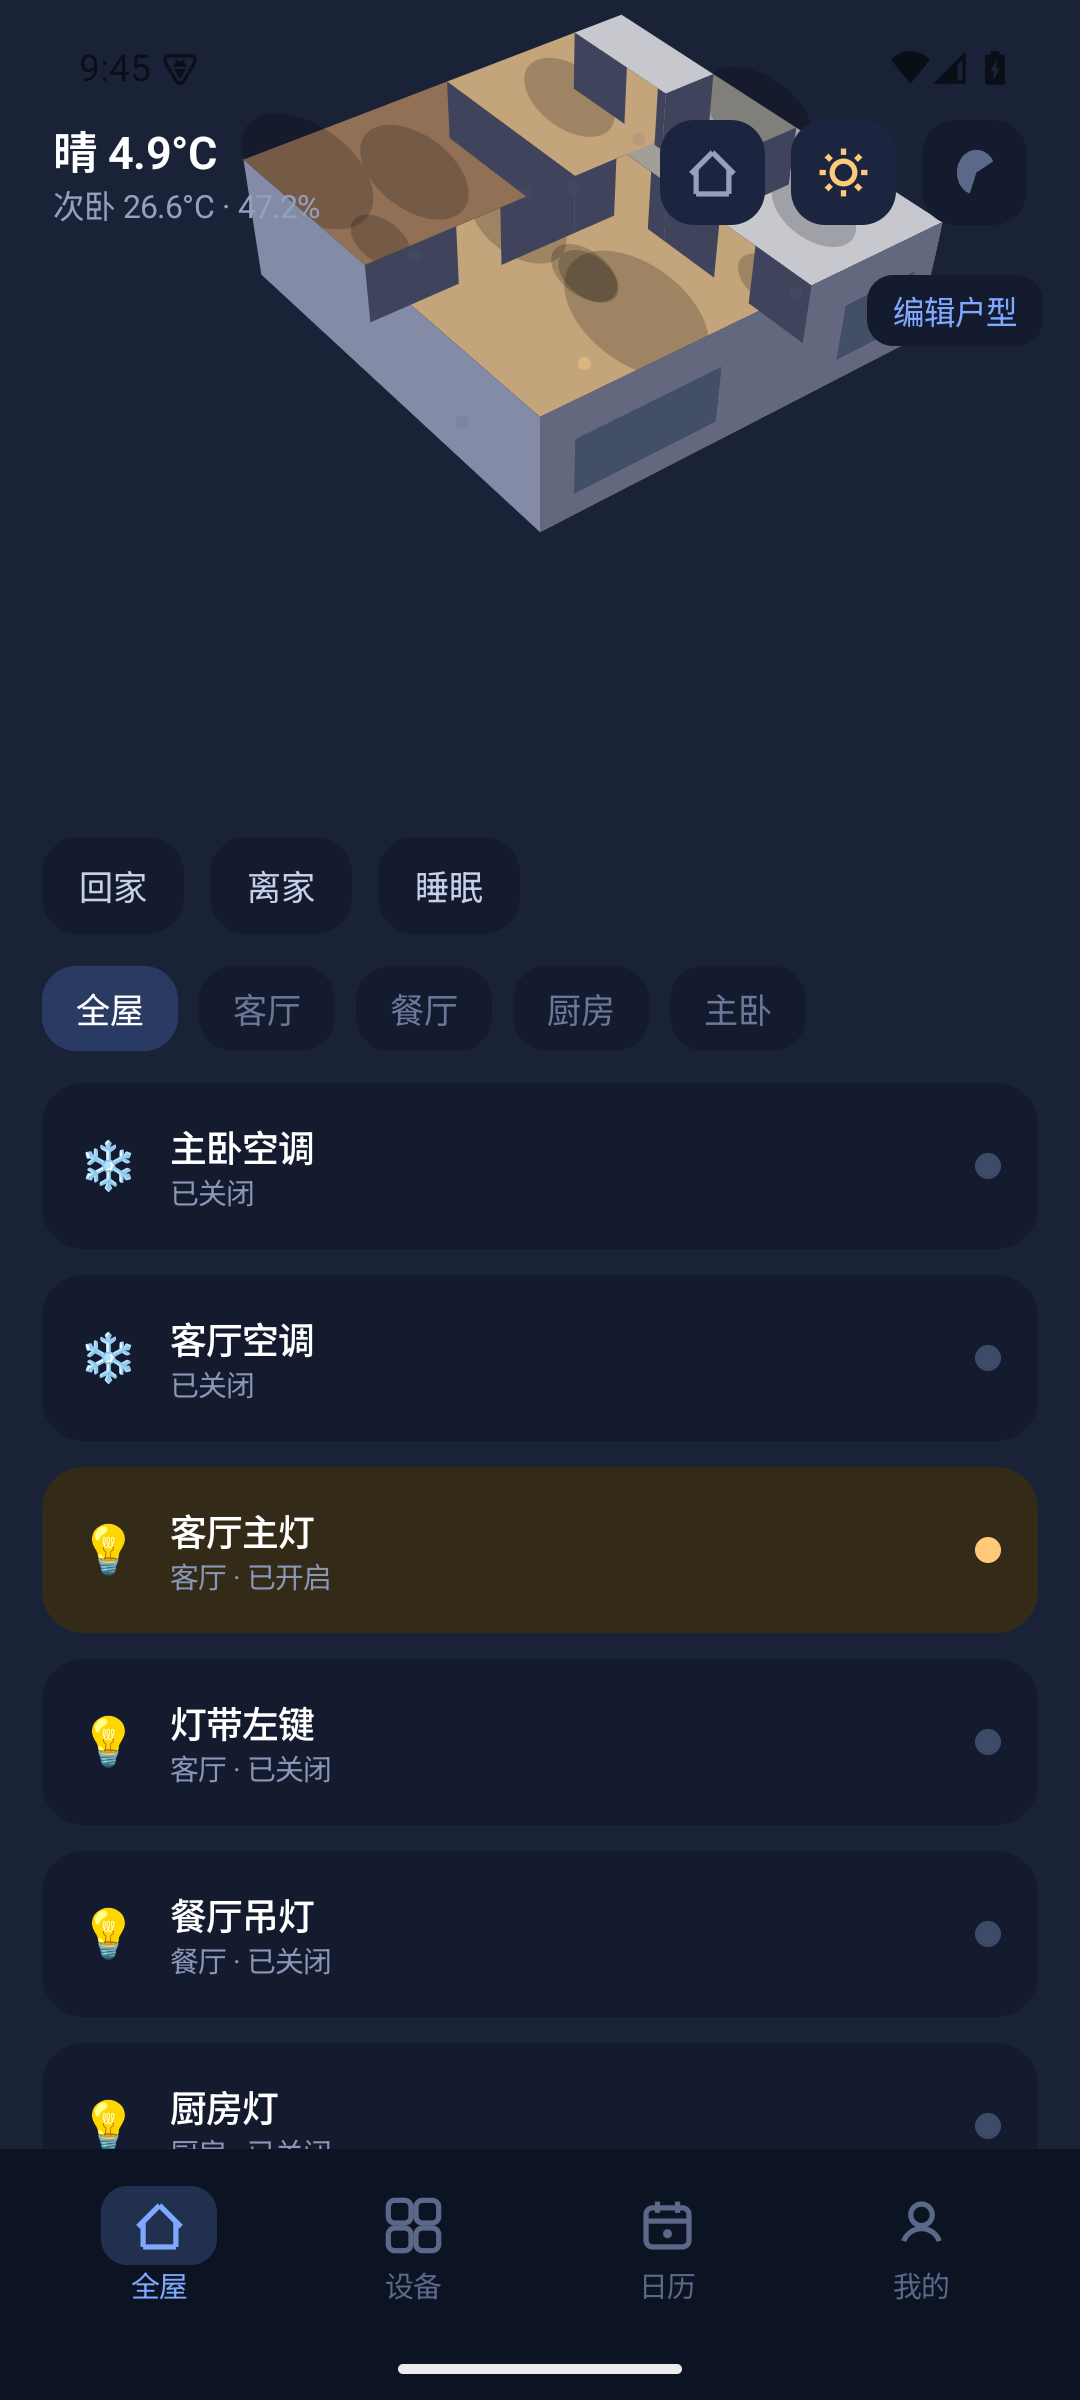
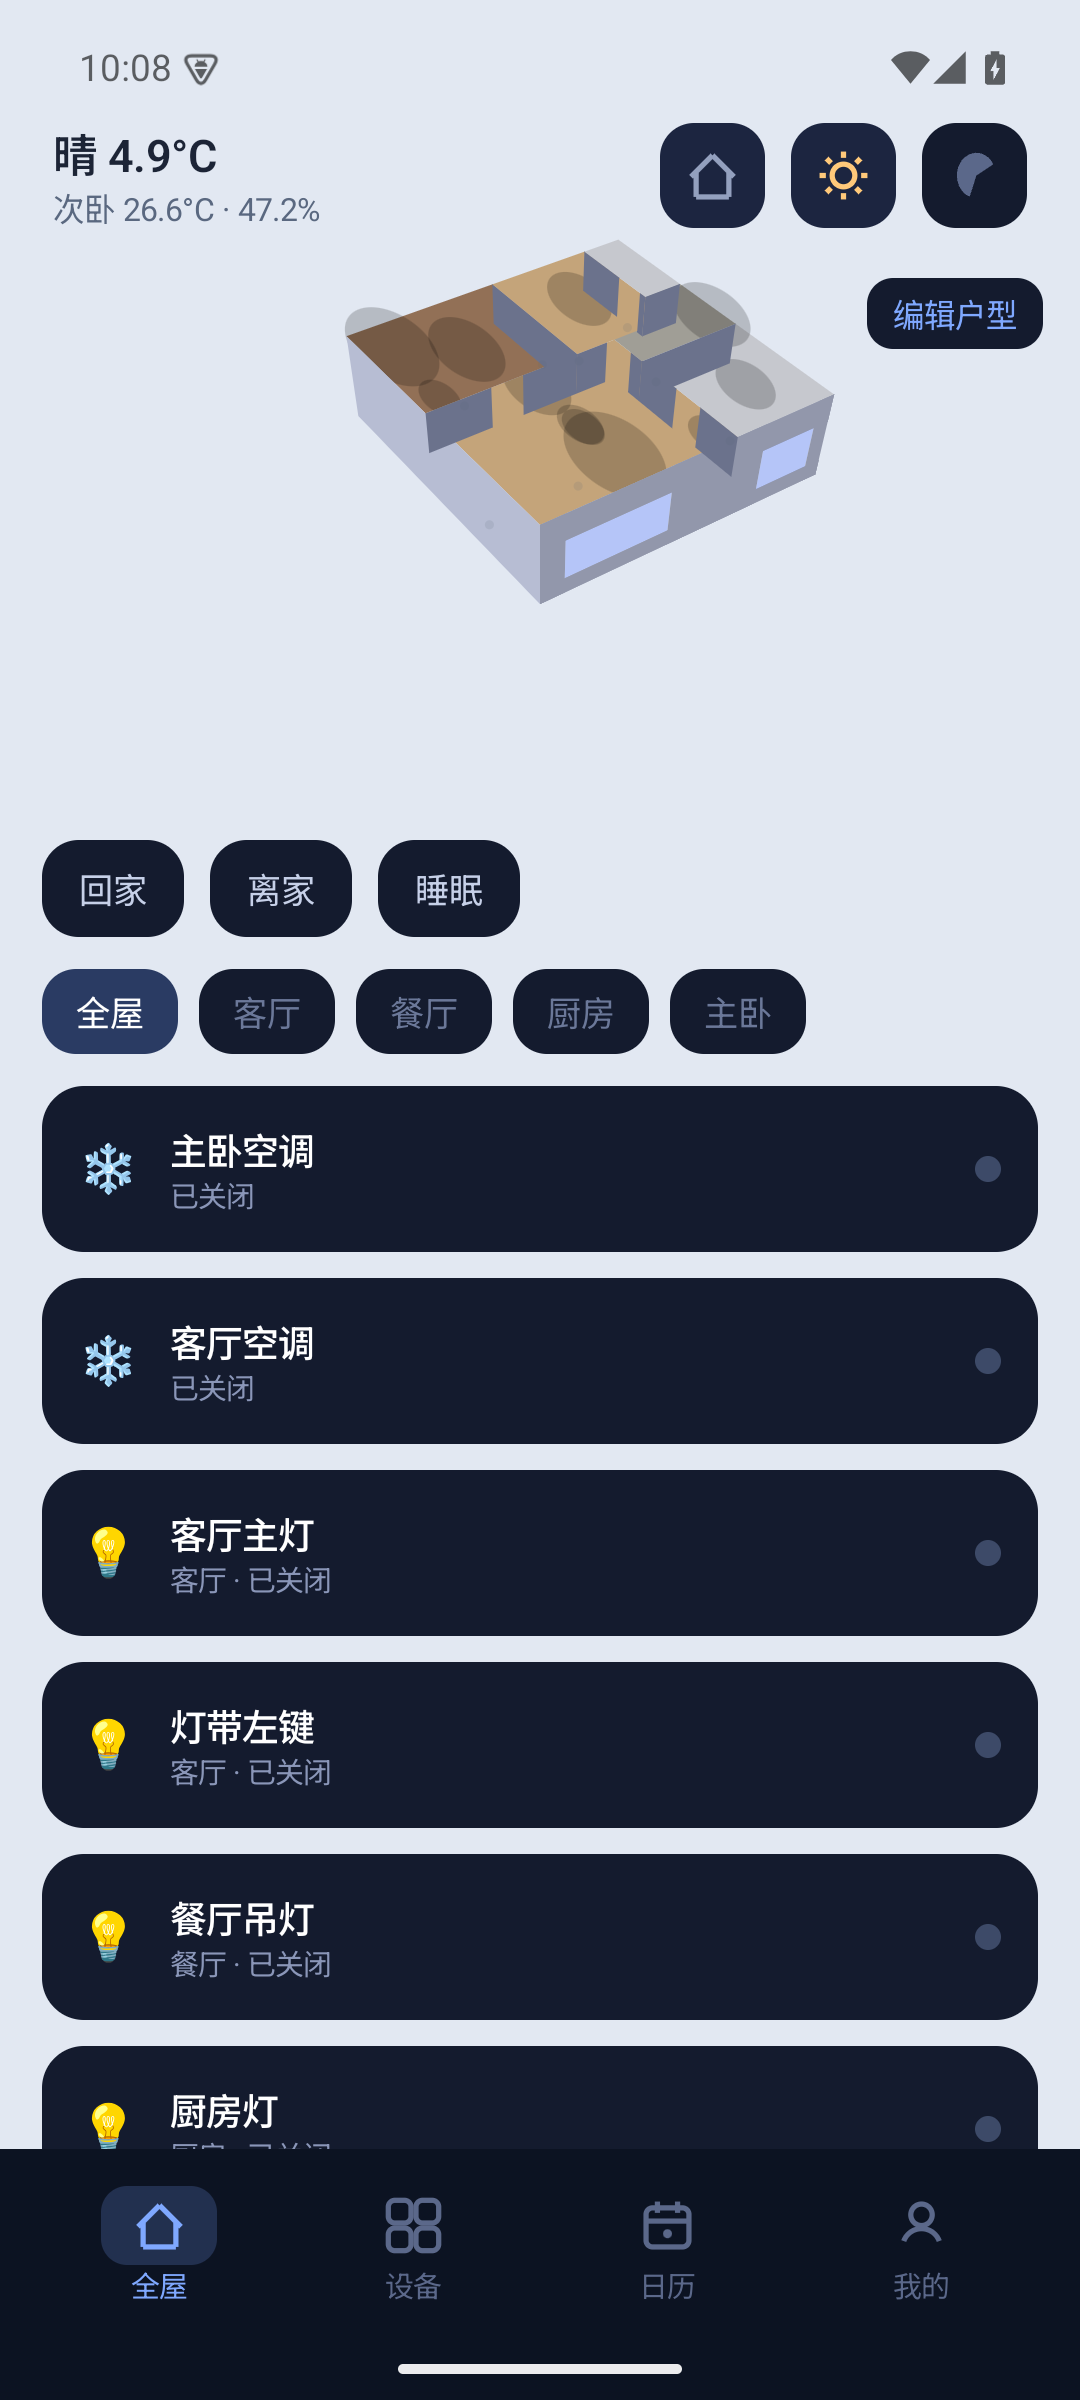
白天模式改浅色背景；3D 模型下移避开天气栏重叠

diff --git a/app/src/main/java/com/caidongzhou/homemate/Floor3D.kt b/app/src/main/java/com/caidongzhou/homemate/Floor3D.kt
@@ -50,16 +50,20 @@ class Floor3DRenderer {
         return P(ox + rx * scale * persp, oy + ry * scale * persp * 0.9f)
     }
 
+    var topInset = 0f
+    var bottomInset = 0f
+
     fun draw(canvas: Canvas, plan: Plan, viewW: Float, viewH: Float, onTapTest: ((MutableList<Triple<Float, Float, LightDevice>>) -> Unit)? = null) {
         val b = plan.bounds
         val worldW = b[2] - b[0]; val worldD = b[3] - b[1]
         val cx = (b[0] + b[2]) / 2f; val cz = (b[1] + b[3]) / 2f
-        val scale = min(viewW / (worldW + 2.4f), viewH / (worldD + 3.2f)) * 0.98f
-        val ox = viewW / 2f; val oy = viewH / 2f
+        val availH = viewH - topInset - bottomInset
+        val scale = min(viewW / (worldW + 2.4f), availH / (worldD + 3.2f)) * 0.98f
+        val ox = viewW / 2f; val oy = topInset + availH / 2f
 
         val dayAmt = 1f - t   // 1=白天 0=夜晚
 
-        canvas.drawColor(lerpColor(Color.rgb(26, 34, 56), Color.rgb(9, 12, 22), t))
+        canvas.drawColor(lerpColor(Color.rgb(226, 232, 242), Color.rgb(9, 12, 22), t))
 
         val hitLights = mutableListOf<Triple<Float, Float, LightDevice>>()
         val wallsBack = mutableListOf<DrawCmd>()
@@ -186,8 +190,8 @@ class Floor3DRenderer {
         val nl = sqrt(nx * nx + nz * nz)
         val sun = sunDir()
         val ndl = max(0.25f, (nx * sun[0] + nz * sun[1]) / nl)
-        val baseCol = if (seg.interior) Color.rgb(96, 104, 128) else Color.rgb(150, 158, 180)
-        val shade = if (night) 0.35f + 0.2f * (1f - dayAmt) else 0.55f + 0.45f * ndl
+        val baseCol = if (seg.interior) Color.rgb(150, 160, 185) else Color.rgb(205, 212, 228)
+        val shade = if (night) 0.35f + 0.2f * (1f - dayAmt) else 0.62f + 0.38f * ndl
         val col = Color.rgb(
             (Color.red(baseCol) * shade).toInt().coerceIn(0, 255),
             (Color.green(baseCol) * shade).toInt().coerceIn(0, 255),
@@ -230,7 +234,7 @@ class Floor3DRenderer {
                                 // 窗户：留玻璃透光
                                 if (o.sill > 0.03f) drawWallQuad(canvas, seg.x0, seg.z0, seg.x1, seg.z1, 0f, o.sill, col, cx, cz, scale, ox, oy, fixedAxis = horizontal)
                                 drawWallQuad(canvas, seg.x0, seg.z0, seg.x1, seg.z1, o.head, h, col, cx, cz, scale, ox, oy)
-                                val glass = Color.argb(if (night) 90 else 60, if (night) 255 else 200, if (night) 230 else 225, 255)
+                                val glass = Color.argb(if (night) 90 else 110, if (night) 255 else 120, if (night) 230 else 150, 255)
                                 drawGlassQuad(canvas, seg, o, glass, cx, cz, scale, ox, oy)
                             }
                             "door" -> { /* 门洞：直接留空 */ }

diff --git a/app/src/main/java/com/caidongzhou/homemate/MainActivity.kt b/app/src/main/java/com/caidongzhou/homemate/MainActivity.kt
@@ -232,15 +232,21 @@ fun HomeTab(
     Column(Modifier.fillMaxSize().verticalScroll(rememberScrollState())) {
         Box(Modifier.fillMaxWidth().height(320.dp)) {
             AndroidView(
-                factory = { c -> Home3DView(c).apply { this.plan = plan; onLightToggle = onToggle } },
+                factory = { c -> Home3DView(c).apply {
+                    this.plan = plan; onLightToggle = onToggle
+                    val density = c.resources.displayMetrics.density
+                    topInsetPx = 88 * density; bottomInsetPx = 8 * density
+                } },
                 update = { v -> v.plan = plan; v.setNight(night) },
                 modifier = Modifier.fillMaxSize()
             )
+            val topText = if (night) Color.White else Color(0xFF1C2436)
+            val topSub = if (night) Color(0xFF93A0BE) else Color(0xFF5A6880)
             Row(Modifier.fillMaxWidth().padding(top = 46.dp, start = 20.dp, end = 20.dp).align(Alignment.TopCenter),
                 horizontalArrangement = Arrangement.SpaceBetween, verticalAlignment = Alignment.CenterVertically) {
                 Column {
-                    Text("晴 4.9°C", color = Color.White, fontSize = 17.sp, fontWeight = FontWeight.SemiBold)
-                    Text("次卧 26.6°C · 47.2%", color = Color(0xFF93A0BE), fontSize = 12.sp)
+                    Text("晴 4.9°C", color = topText, fontSize = 17.sp, fontWeight = FontWeight.SemiBold)
+                    Text("次卧 26.6°C · 47.2%", color = topSub, fontSize = 12.sp)
                 }
                 Row(horizontalArrangement = Arrangement.spacedBy(10.dp)) {
                     TopIcon("🏠"); TopIcon("☀", active = !night, onClick = { onToggleNight() }); TopIcon("🌙", active = night, onClick = { onToggleNight() })

diff --git a/app/src/main/java/com/caidongzhou/homemate/HomeView.kt b/app/src/main/java/com/caidongzhou/homemate/HomeView.kt
@@ -19,6 +19,8 @@ class Home3DView(context: android.content.Context) : android.view.View(context) 
     private var nightAnimTo = 0f
     private var nightAnimStart = 0L
     private var lastHits = listOf<Triple<Float, Float, LightDevice>>()
+    var topInsetPx = 0f
+    var bottomInsetPx = 0f
 
     fun setNight(n: Boolean, animate: Boolean = true) {
         val target = if (n) 1f else 0f
@@ -39,6 +41,8 @@ class Home3DView(context: android.content.Context) : android.view.View(context) 
             renderer.t = nightAnimFrom + (nightAnimTo - nightAnimFrom) * e
             if (p < 1f) postInvalidateOnAnimation() else nightAnimStart = 0L
         }
+        renderer.topInset = topInsetPx
+        renderer.bottomInset = bottomInsetPx
         renderer.draw(canvas, plan, width.toFloat(), height.toFloat()) { lastHits = it }
     }
 
